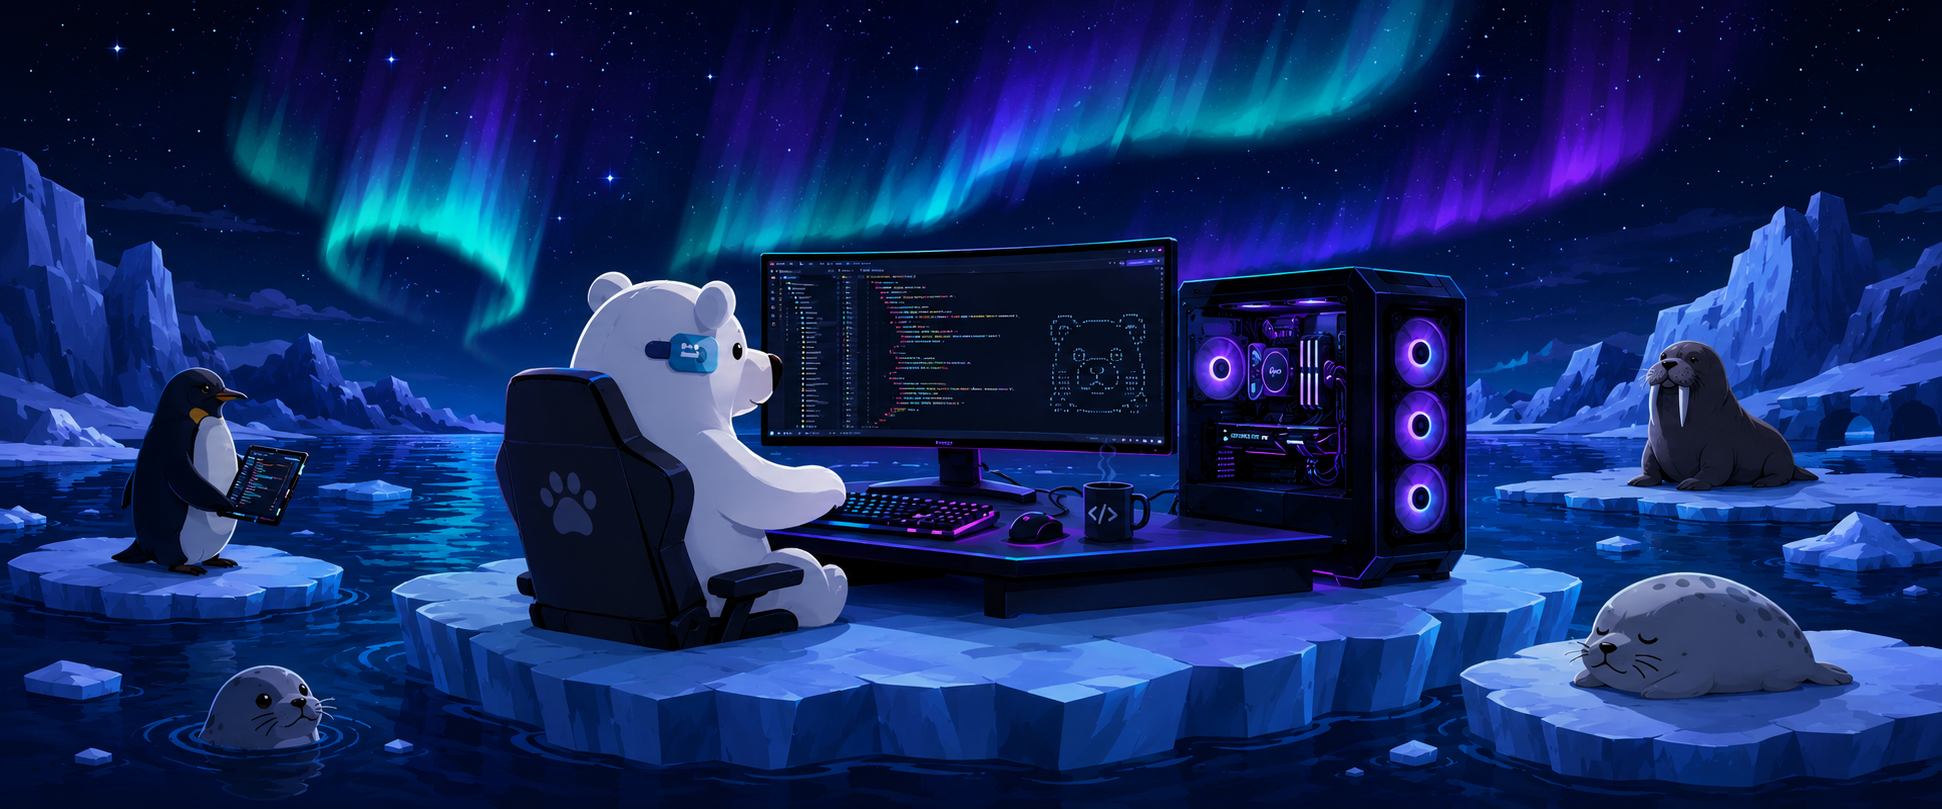
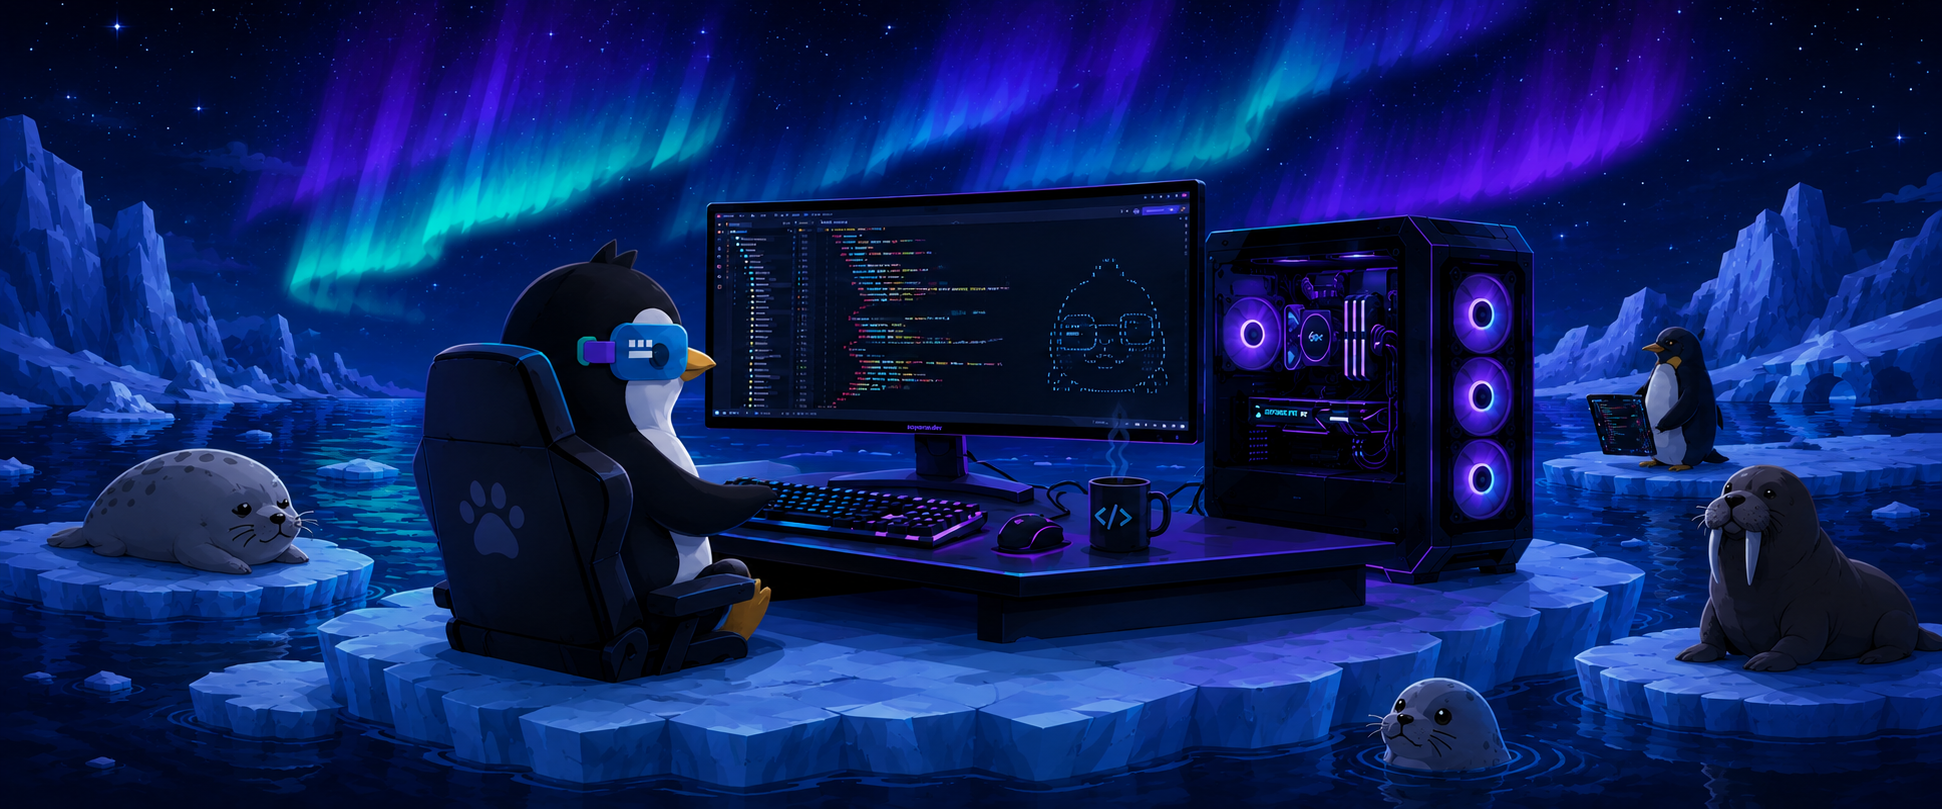
Mini game

diff --git a/src/components/game/Penguin.tsx b/src/components/game/Penguin.tsx
@@ -1,0 +1,192 @@
+import { useEffect, useRef, useState } from 'react';
+import './Penguin.scss';
+
+const PENGUIN_SIZE = 48;
+const MOVE_SPEED = 3.5;
+
+interface Burst {
+    id: number;
+    direction: 'left' | 'right';
+}
+
+const Penguin = () => {
+    const [position, setPosition] = useState({ x: 120, y: 160 });
+    const [facing, setFacing] = useState<'left' | 'right'>('right');
+    const [bursts, setBursts] = useState<Burst[]>([]);
+    const [isMoving, setIsMoving] = useState(false);
+    const pressedKeys = useRef<Record<string, boolean>>({});
+
+    useEffect(() => {
+        const onKeyDown = (event: KeyboardEvent) => {
+            const key = event.key.toLowerCase();
+            if (key === 'p') {
+                event.preventDefault();
+                setBursts((current) => [
+                    ...current,
+                    {
+                        id: Date.now() + Math.random(),
+                        direction: facing,
+                    },
+                ]);
+                return;
+            }
+
+            if (['w', 'a', 's', 'd'].includes(key)) {
+                pressedKeys.current[key] = true;
+            }
+        };
+
+        const onKeyUp = (event: KeyboardEvent) => {
+            const key = event.key.toLowerCase();
+            if (['w', 'a', 's', 'd'].includes(key)) {
+                pressedKeys.current[key] = false;
+            }
+        };
+
+        window.addEventListener('keydown', onKeyDown);
+        window.addEventListener('keyup', onKeyUp);
+
+        return () => {
+            window.removeEventListener('keydown', onKeyDown);
+            window.removeEventListener('keyup', onKeyUp);
+        };
+    }, [facing, position.x, position.y]);
+
+    useEffect(() => {
+        let frameId = 0;
+
+        const getCollisionRect = (x: number, y: number) => ({
+            left: x,
+            top: y,
+            right: x + PENGUIN_SIZE,
+            bottom: y + PENGUIN_SIZE,
+        });
+
+        const intersects = (
+            rectA: { left: number; right: number; top: number; bottom: number },
+            rectB: { left: number; right: number; top: number; bottom: number },
+        ) => rectA.left < rectB.right && rectA.right > rectB.left && rectA.top < rectB.bottom && rectA.bottom > rectB.top;
+
+        const moveCharacter = () => {
+            let dx = 0;
+            let dy = 0;
+
+            const currentlyMoving = Boolean(
+                pressedKeys.current.w ||
+                pressedKeys.current.a ||
+                pressedKeys.current.s ||
+                pressedKeys.current.d,
+            );
+
+            setIsMoving(currentlyMoving);
+
+            if (pressedKeys.current.w) dy -= MOVE_SPEED;
+            if (pressedKeys.current.s) dy += MOVE_SPEED;
+            if (pressedKeys.current.a) {
+                dx -= MOVE_SPEED;
+                setFacing('left');
+            }
+            if (pressedKeys.current.d) {
+                dx += MOVE_SPEED;
+                setFacing('right');
+            }
+
+            setPosition((current) => {
+                const nextX = Math.min(Math.max(current.x + dx, 0), window.innerWidth - PENGUIN_SIZE);
+                const nextY = Math.min(Math.max(current.y + dy, 0), window.innerHeight - PENGUIN_SIZE);
+
+                const obstacles = [
+                    document.querySelector('header')?.getBoundingClientRect(),
+                    document.querySelector('footer')?.getBoundingClientRect(),
+                    ...Array.from(document.querySelectorAll('.floating-social-btn')).map((button) => button.getBoundingClientRect()),
+                ].filter(Boolean) as DOMRect[];
+
+                const nextRect = getCollisionRect(nextX, nextY);
+
+                let resolvedX = nextX;
+                let resolvedY = nextY;
+
+                for (const obstacle of obstacles) {
+                    const obstacleRect = {
+                        left: obstacle.left,
+                        right: obstacle.right,
+                        top: obstacle.top,
+                        bottom: obstacle.bottom,
+                    };
+
+                    if (intersects(nextRect, obstacleRect)) {
+                        const horizontalOverlap = Math.min(nextRect.right, obstacleRect.right) - Math.max(nextRect.left, obstacleRect.left);
+                        const verticalOverlap = Math.min(nextRect.bottom, obstacleRect.bottom) - Math.max(nextRect.top, obstacleRect.top);
+
+                        if (horizontalOverlap > verticalOverlap) {
+                            resolvedY = current.y;
+                        } else {
+                            resolvedX = current.x;
+                        }
+                    }
+                }
+
+                const clampedX = Math.min(Math.max(resolvedX, 0), window.innerWidth - PENGUIN_SIZE);
+                const clampedY = Math.min(Math.max(resolvedY, 0), window.innerHeight - PENGUIN_SIZE);
+
+                const finalRect = getCollisionRect(clampedX, clampedY);
+                if (obstacles.some((obstacle) => {
+                    const obstacleRect = {
+                        left: obstacle.left,
+                        right: obstacle.right,
+                        top: obstacle.top,
+                        bottom: obstacle.bottom,
+                    };
+                    return intersects(finalRect, obstacleRect);
+                })) {
+                    return current;
+                }
+
+                return {
+                    x: clampedX,
+                    y: clampedY,
+                };
+            });
+
+            frameId = window.requestAnimationFrame(moveCharacter);
+        };
+
+        frameId = window.requestAnimationFrame(moveCharacter);
+
+        return () => {
+            window.cancelAnimationFrame(frameId);
+        };
+    }, []);
+
+    useEffect(() => {
+        if (bursts.length === 0) return;
+
+        const timer = window.setTimeout(() => {
+            setBursts((current) => current.slice(1));
+        }, 500);
+
+        return () => window.clearTimeout(timer);
+    }, [bursts]);
+
+    return (
+        <div className="penguin" style={{ left: position.x, top: position.y }}>
+            <div className={isMoving ? 'penguin__sprite penguin__sprite--moving' : 'penguin__sprite'}>
+                <img
+                    src="/Isotype.png"
+                    alt="Penguin"
+                    className={facing === 'left' ? 'penguin__img penguin__img--left' : 'penguin__img'}
+                />
+            </div>
+            {bursts.map((burst) => (
+                <span
+                    key={burst.id}
+                    className={burst.direction === 'left' ? 'penguin__burst penguin__burst--left' : 'penguin__burst penguin__burst--right'}
+                >
+                    {'<CODE_BURST />'}
+                </span>
+            ))}
+        </div>
+    );
+};
+
+export default Penguin;

diff --git a/src/components/game/Penguin.scss b/src/components/game/Penguin.scss
@@ -1,0 +1,94 @@
+@use '@/styles/vars' as *;
+
+.penguin {
+    position: fixed;
+    left: 0;
+    top: 0;
+    z-index: 1400;
+    pointer-events: none;
+    width: 3rem;
+    height: 3rem;
+    display: none;
+    position: fixed;
+    transform: translate3d(0, 0, 0);
+
+    @media screen and (min-width: 1024px) {
+        display: block;
+    }
+}
+
+.penguin__sprite {
+    width: 3rem;
+    height: 3rem;
+    display: grid;
+    place-items: center;
+    animation: penguinIdle 1.2s ease-in-out infinite alternate;
+}
+
+.penguin__sprite--moving {
+    animation: penguinRun 0.28s ease-in-out infinite alternate;
+}
+
+.penguin__img {
+    width: 3rem;
+    height: 3rem;
+    object-fit: contain;
+    filter: drop-shadow(0 0 18px rgba(113, 179, 255, 0.4));
+    transform: scaleX(1);
+}
+
+.penguin__img--left {
+    transform: scaleX(-1);
+}
+
+.penguin__burst {
+    position: absolute;
+    top: 0.45rem;
+    color: $primary-color;
+    font-family: $code;
+    font-size: 0.7rem;
+    white-space: nowrap;
+    text-shadow: 0 0 12px rgba(113, 179, 255, 0.8);
+    animation: burstFade 0.35s ease-out forwards;
+    pointer-events: none;
+}
+
+.penguin__burst--right {
+    left: calc(100% + 0.5rem);
+}
+
+.penguin__burst--left {
+    right: calc(100% + 0.5rem);
+}
+
+@keyframes penguinIdle {
+    0% {
+        transform: translateY(0) rotate(-2deg);
+    }
+    100% {
+        transform: translateY(-3px) rotate(2deg);
+    }
+}
+
+@keyframes penguinRun {
+    0% {
+        transform: translateY(0) rotate(-4deg);
+    }
+    100% {
+        transform: translateY(-4px) rotate(4deg) scale(1.04);
+    }
+}
+
+@keyframes burstFade {
+    0% {
+        opacity: 0;
+        transform: translateX(0) scale(0.8);
+    }
+    20% {
+        opacity: 1;
+    }
+    100% {
+        opacity: 0;
+        transform: translateX(12px) scale(1.08);
+    }
+}

diff --git a/src/components/layout/MainLayout.tsx b/src/components/layout/MainLayout.tsx
@@ -5,16 +5,19 @@ import { PATHS } from "@/constants/routes";
 import { Analytics } from "@vercel/analytics/react";
 import WhatsappBtn from "../UI/Bubble/WhatsappBubble";
 import KofiBtn from "../UI/Bubble/KofiBubble";
+import Penguin from "@/components/game/Penguin";
 
 const MainLayout = () => {
     const location = useLocation();
     const showFloatingButtons = location.pathname !== PATHS.LINKS;
+    const showPenguin = location.pathname !== PATHS.LINKS;
 
     return (
         <>
             <Header />
             <Outlet />
             <Footer />
+            {showPenguin && <Penguin />}
             {showFloatingButtons && <WhatsappBtn />}
             {showFloatingButtons && <KofiBtn />}
             <Analytics />

diff --git a/src/components/layout/Footer/Footer.tsx b/src/components/layout/Footer/Footer.tsx
@@ -10,7 +10,7 @@ import ClipboardFeedback from '@/components/UI/ClipboardFeedback/ClipboardFeedba
 const Footer = () => {
     const { t } = useI18n();
     const controlText = t('footer.controlWASD');
-    const controlParts = controlText.split(/(WASD)/i);
+    const controlParts = controlText.split(/(WASDP)/i);
     const [emailCopied, setEmailCopied] = useState(false);
 
     const handleCopyEmail = async () => {
@@ -24,7 +24,7 @@ const Footer = () => {
     };
 
     return (
-        <footer>
+        <footer id='footer'>
             <section className="footer__main">
                 <article className="footer__main-logo">
                     <img src="/Logotype.png" alt="" />
